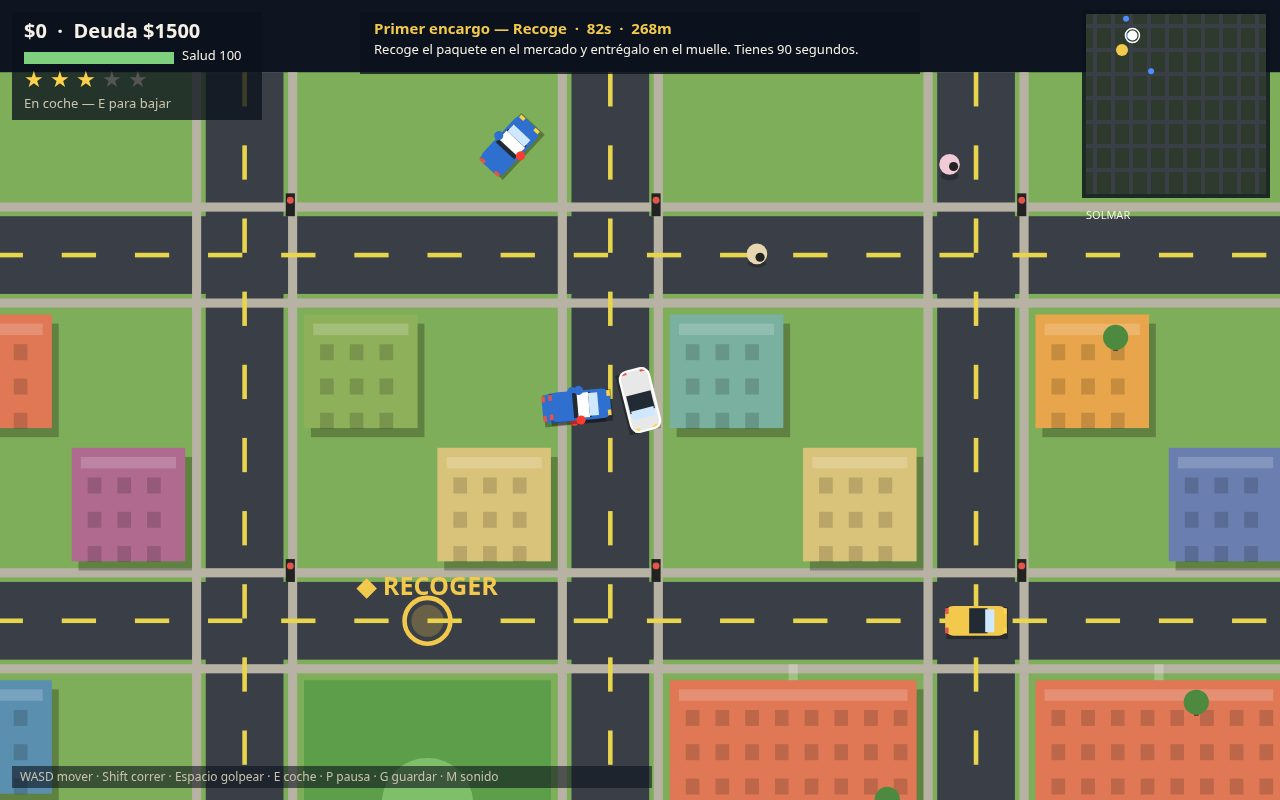
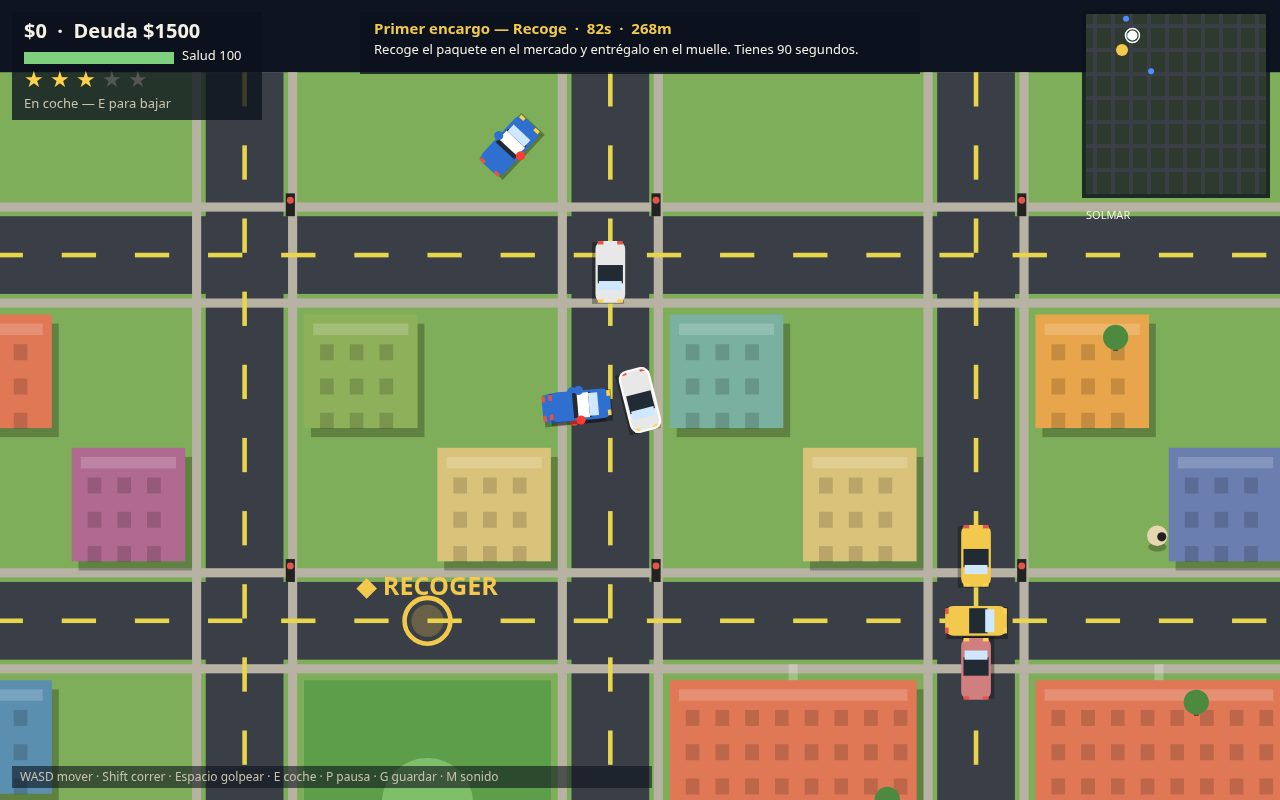
Solmar Nights - QA fixes (Paso 2)

diff --git a/game/src/vehicles.js b/game/src/vehicles.js
@@ -64,6 +64,11 @@ export function updatePolice(state, dt, audio) {
     car.targetSpeed = CAR.policeSpeed;
     state.cars.push(car);
   }
+  // Whether any police car is right on top of Mara on foot. This is
+  // decided once per step, after the loop: the old code decayed the
+  // catch timer once per police car, so with 2+ cars out one near car
+  // could never fill it and getting caught was impossible.
+  let policeOnFoot = false;
   for (const c of state.cars) {
     if (c.kind !== 'police') continue;
     const p = state.player;
@@ -74,22 +79,45 @@ export function updatePolice(state, dt, audio) {
     while (diff > Math.PI) diff -= Math.PI * 2;
     while (diff < -Math.PI) diff += Math.PI * 2;
     c.angle += Math.max(-2.8 * dt, Math.min(2.8 * dt, diff));
-    c.speed = Math.min(CAR.policeSpeed, c.speed + 380 * dt);
     // Police drive on the streets too: slide along buildings, never over roofs.
-    const nx = c.x + Math.cos(c.angle) * c.speed * dt;
-    const ny = c.y + Math.sin(c.angle) * c.speed * dt;
     const blocked = (x, y) => state.city.buildings.some((b) => x > b.x - 24 && x < b.x + b.w + 24 && y > b.y - 24 && y < b.y + b.h + 24);
-    if (!blocked(nx, c.y)) c.x = nx; else c.speed *= 0.5;
-    if (!blocked(c.x, ny)) c.y = ny; else c.speed *= 0.5;
+    if (c.reverseT > 0) {
+      // Backing out of a building corner: reverse while turning, then
+      // resume the chase with a new line at the player.
+      c.reverseT -= dt;
+      c.angle += 2.8 * dt;
+      c.speed = -140;
+      const bx = c.x + Math.cos(c.angle) * c.speed * dt;
+      const by = c.y + Math.sin(c.angle) * c.speed * dt;
+      if (!blocked(bx, c.y)) c.x = bx;
+      if (!blocked(c.x, by)) c.y = by;
+    } else {
+      c.speed = Math.min(CAR.policeSpeed, c.speed + 380 * dt);
+      // Closing in on Mara on foot: ease off so the car can actually stop
+      // beside her instead of circling past at full speed — at 430 px/s
+      // the turning circle is ~150 px, so the 48 px arrest range was
+      // unreachable and a standing player was never caught.
+      if (!p.inCar && dist < 160) c.speed = Math.min(c.speed, Math.max(40, dist * 1.5));
+      const nx = c.x + Math.cos(c.angle) * c.speed * dt;
+      const ny = c.y + Math.sin(c.angle) * c.speed * dt;
+      const canX = !blocked(nx, c.y);
+      const canY = !blocked(c.x, ny);
+      if (canX) c.x = nx; else c.speed *= 0.5;
+      if (canY) c.y = ny; else c.speed *= 0.5;
+      // Wedged in a building corner (no axis free) and still far from
+      // Mara: after 0.8 s of pushing, back out instead of sitting there.
+      if (!canX && !canY && dist > 60) {
+        c.stuck += dt;
+        if (c.stuck > 0.8) { c.stuck = 0; c.reverseT = 0.9; }
+      } else c.stuck = 0;
+    }
     c.siren += dt;
     if (c.hitCd > 0) c.hitCd -= dt;
     // Ram the player: a hit every half second at most, so a chase is
     // survivable and health is a real resource, not a timer.
     if (dist < 48) {
-      if (!p.inCar) {
-        p.busted += dt;
-        if (p.busted > 1.4) state.over = 'busted';
-      } else if (c.hitCd <= 0) {
+      if (!p.inCar) policeOnFoot = true;
+      else if (c.hitCd <= 0) {
         c.hitCd = 0.5;
         const pc = state.cars.find((v) => v.id === p.inCar);
         if (pc) pc.speed *= 0.6;
@@ -98,8 +126,16 @@ export function updatePolice(state, dt, audio) {
         addParticles(state, c.x, c.y, '#ffd24d', 4);
         if (audio) audio.crash();
       }
-    } else if (!p.inCar) p.busted = Math.max(0, p.busted - dt);
+    }
     if (dist > 1400) { c.x = p.x + (state.random() < 0.5 ? -700 : 700); c.y = p.y + (state.random() < 0.5 ? -700 : 700); }
+  }
+  // On foot, a police car within arm's reach starts the arrest: 1.4 s of
+  // contact and Mara is busted. Breaking contact lets the timer drain.
+  if (!state.player.inCar) {
+    if (policeOnFoot) {
+      state.player.busted += dt;
+      if (state.player.busted > 1.4) state.over = 'busted';
+    } else state.player.busted = Math.max(0, state.player.busted - dt);
   }
   // Wanted fades: remove police cars when the heat is gone.
   if (state.wanted === 0) {

diff --git a/game/src/world.js b/game/src/world.js
@@ -80,7 +80,7 @@ let carId = 1;
 export function makeCar(x, y, angle, kind, color) {
   return {
     id: carId += 1, x, y, angle, speed: 0, color, kind,
-    axis: 'x', dir: 1, targetSpeed: 0, siren: 0, stuck: 0,
+    axis: 'x', dir: 1, targetSpeed: 0, siren: 0, stuck: 0, reverseT: 0,
   };
 }
 
